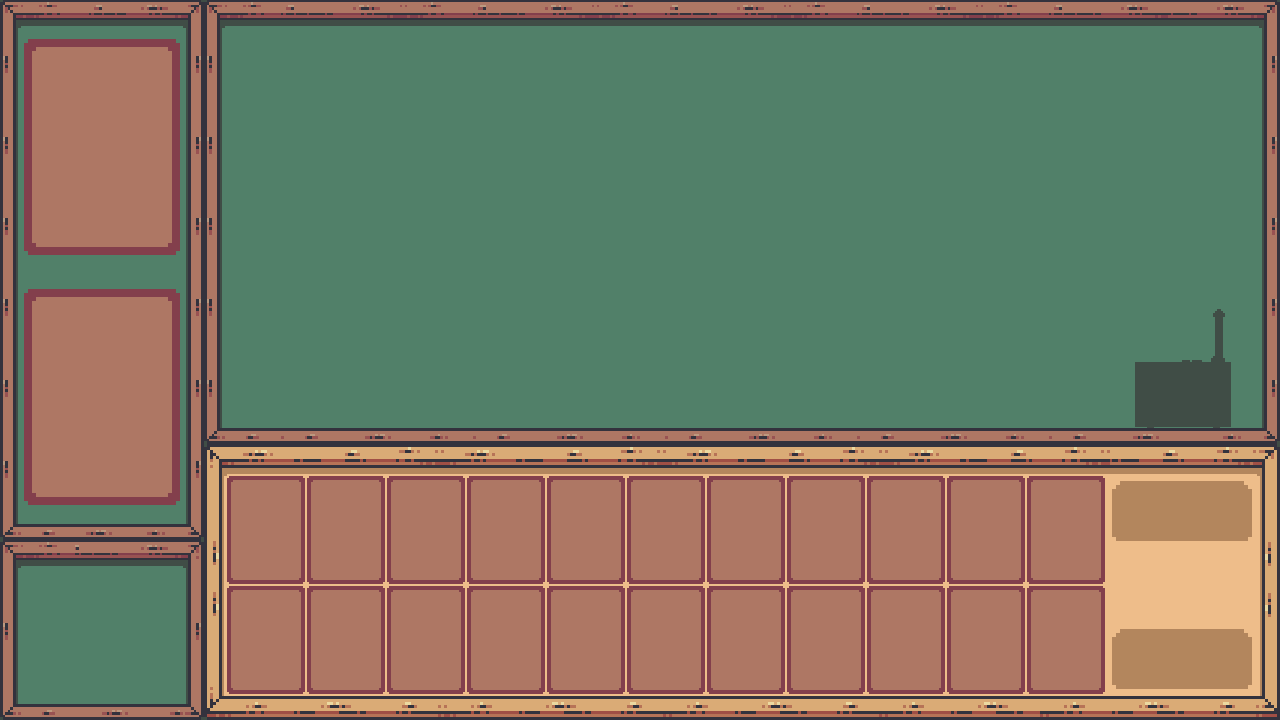
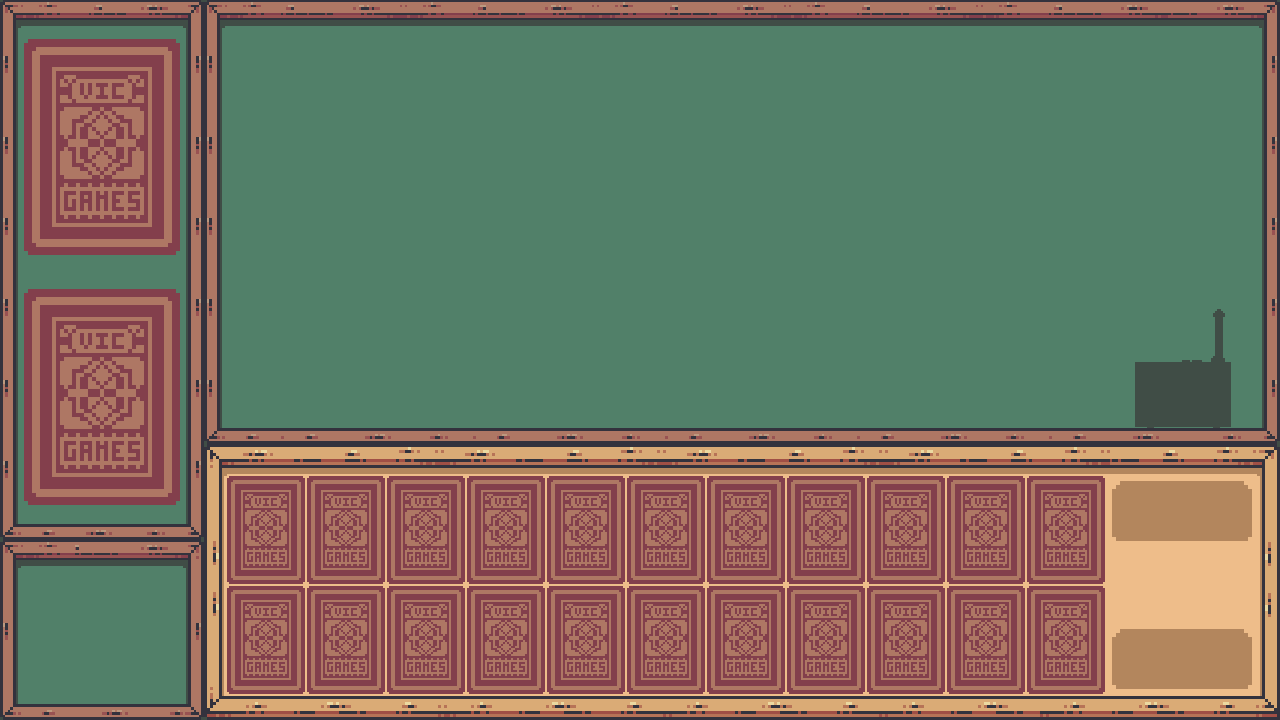
ahora el tablero no se ve tan mal

Changed region(s): [[0.1562, 0.6722, 0.875, 0.9778], [0.0312, 0.3972, 0.125, 0.7028], [0.0312, 0.0611, 0.125, 0.3361]]

diff --git a/src/cardTreatment/Mano.java b/src/cardTreatment/Mano.java
@@ -17,6 +17,7 @@ import utilz.LoadSave;
 public class Mano extends Combinaciones {
 	
 	private List<Carta> mano;
+	private List<Slot> manoSlot;
 	private List<Trio> bajadaTrios;
 	private List<Escalera> bajadaEscalera;
 	private List<Carta> selection;
@@ -29,6 +30,8 @@ public class Mano extends Combinaciones {
 	
 	public Mano(Baraja b) {
 		mano = new ArrayList<>();
+		manoSlot = new ArrayList<>();
+		initSlot();
 		bajadaTrios = new ArrayList<>();
 		bajadaEscalera = new ArrayList<>();
 		selection = new ArrayList<>();
@@ -38,20 +41,32 @@ public class Mano extends Combinaciones {
 		importCards();
 	}
 	
+	private void initSlot() {
+		int x = 227;
+		int y = 474;
+		for (int i = 0; i < 22; i++) {
+			manoSlot.add(new Slot(x, y));
+			if (x == 1027) {
+				x = 227;
+				y = 584;
+			} else { x += 80; }
+		} 
+	}
+
 	private void importCards() {
 		img = LoadSave.GetSpriteAtlas(LoadSave.CARD_ATLAS);
 	}
 	
 	public void updateMano() {
-		for (Carta c : mano) {
-			c.updateHitbox();
+		for (Slot s : manoSlot) {
+			s.getCarta().updateHitbox();
 		}
 	}
 	
-	public void renderMano(Graphics g) {
-		ArrayList<Carta> aux = new ArrayList<>(mano);
-		for (Carta c : aux) {
-			c.render(g, getImage(), 1, 1);
+	public void renderSlots(Graphics g) {
+		ArrayList<Slot> aux = new ArrayList<>(manoSlot);
+		for (Slot s : aux) {
+			s.render(g, img);
 		}
 	}
 	
@@ -62,16 +77,52 @@ public class Mano extends Combinaciones {
 	public void give() {
 		Random random = new Random();
 		int num = random.nextInt(baraja.getSize()); //genera un número aleatorio para la baraja (52 cartas y 6 comodines)
-		mano.add(baraja.getCard(num)); //añade una carta de la baraja y la elimina de la lista. Si después de eso la baraja queda vacía, genera una nueva
+		Carta c = baraja.getCard(num);
+		mano.add(c); //añade una carta de la baraja y la elimina de la lista.
+		addToSlot(c); //añade la carta al slot
+		System.out.println("Added 1 card");
 	}
 	
+	private void addToSlot(Carta c) {
+		int i = 0;
+		boolean added = false;
+		while (i < manoSlot.size() && !added) {
+			if (manoSlot.get(i).getCarta() == null) {
+				manoSlot.get(i).add(c);
+				added = true;
+			}
+			i++;
+		}
+	}
+
 	public void discard(Carta carta) {
 		mano.remove(carta);
+		removeFromSlots(carta);
 		ultimaCartaEliminada = carta;
 	}
 	
+	private void removeFromSlots(Carta carta) {
+		int i = 0;
+		boolean removed = false;
+		while (i < manoSlot.size() && !removed) {
+			if (manoSlot.get(i).getCarta().equals(carta)) {
+				manoSlot.get(i).remove();
+				updateSlots(i);
+				removed = true;
+			}
+			i++;
+		}
+	}
+
+	private void updateSlots(int pos) {
+		for (int i = pos; i < manoSlot.size() - 1; i++) {
+			manoSlot.get(i).add(manoSlot.get(i + 1).getCarta());
+		}
+	}
+
 	public void take(Carta carta) {
 		mano.add(carta);
+		addToSlot(carta);
 	}
 	
 	public void retake() {

diff --git a/src/cardTreatment/Carta.java b/src/cardTreatment/Carta.java
@@ -24,7 +24,7 @@ public class Carta {
 		resguardada = false;
 		this.x = x;
 		this.y = y;
-		initHitbox(x, y, 2 * CARD_WIDTH, 2 * CARD_HEIGHT);
+		initHitbox();
 	}
 	
 	public Carta(int x, int y) { //Crea un comodín en X e Y
@@ -36,11 +36,11 @@ public class Carta {
 		resguardada = false;
 		this.x = x;
 		this.y = y;
-		initHitbox(this.x, this.y, 2 * CARD_WIDTH, 2 * CARD_HEIGHT);
+		initHitbox();
 	}
 	
-	private void initHitbox(int x, int y, int w, int h) {
-		hitbox = new Rectangle(x, y, w, h);
+	private void initHitbox() {
+		hitbox = new Rectangle(x, y, CARD_WIDTH, CARD_HEIGHT);
 	}
 	
 	public void updateHitbox() {
@@ -49,8 +49,9 @@ public class Carta {
 		
 	}
 	
-	public void updatePos() {
-		
+	public void setCardDimensions(int mult) {
+		hitbox.width = mult * CARD_WIDTH;
+		hitbox.height = mult * CARD_HEIGHT;
 	}
 
 	public boolean getEnBaraja() {
@@ -73,9 +74,9 @@ public class Carta {
 		return hitbox;
 	}
 	
-	public void drawHitbox(Graphics g, int wmult, int hmult) {
+	public void drawHitbox(Graphics g, int mult) {
 		g.setColor(Color.pink);
-		g.drawRect(hitbox.x, hitbox.y, wmult * CARD_WIDTH, hmult * CARD_HEIGHT);
+//		g.drawRect(hitbox.x, hitbox.y, mult * CARD_WIDTH, mult * CARD_HEIGHT);
 	}
 	
 	private void adjustValue(int n) {
@@ -95,16 +96,16 @@ public class Carta {
 		}
 	}
 	
-	public void render(Graphics g, BufferedImage img, int wmult, int hmult) {
-//		x = xD;
-//		y = yD;
+	public void render(Graphics g, BufferedImage img, int x, int y, int mult) {
+		this.x = x;
+		this.y = y;
 		updateHitbox();
 		if (isComodin()) {
-			g.drawImage(img.getSubimage(CARD_WIDTH, (palo - 1) * CARD_HEIGHT, CARD_WIDTH , CARD_HEIGHT), x, y, wmult * CARD_WIDTH , hmult * CARD_HEIGHT, null);
+			g.drawImage(img.getSubimage(CARD_WIDTH, (palo - 1) * CARD_HEIGHT, CARD_WIDTH , CARD_HEIGHT), x, y, mult * CARD_WIDTH , mult * CARD_HEIGHT, null);
 		} else {
-			g.drawImage(img.getSubimage((number - 1) * CARD_WIDTH, (palo - 1) * CARD_HEIGHT, CARD_WIDTH , CARD_HEIGHT), x, y, wmult * CARD_WIDTH , hmult * CARD_HEIGHT, null);
+			g.drawImage(img.getSubimage((number - 1) * CARD_WIDTH, (palo - 1) * CARD_HEIGHT, CARD_WIDTH , CARD_HEIGHT), x, y, mult * CARD_WIDTH , mult * CARD_HEIGHT, null);
 		}
-		drawHitbox(g, wmult, hmult);
+		drawHitbox(g, mult);
 	}
 	
 	public boolean isSeleccionada() { return seleccionada; }

diff --git a/src/cardTreatment/Slot.java b/src/cardTreatment/Slot.java
@@ -1,14 +1,48 @@
 package cardTreatment;
 
+import java.awt.Color;
+import java.awt.Graphics;
 import java.awt.Rectangle;
+import java.awt.image.BufferedImage;
 
 public class Slot {
 	
-	private Carta card;
+	private Carta carta;
 	private Rectangle hitbox;
+	private int x, y, width = 78, height = 108;
 	
-	public Slot() {
-		hitbox = new Rectangle(0, 0, 78, 108);
+	public Slot(int x, int y) {
+		this.x = x;
+		this.y = y;
+		carta = null;
+		hitbox = new Rectangle(x, y, width, height);
+	}
+	
+	public void setSlotPos(int x, int y) {
+		this.x = x;
+		this.y = y;
+		hitbox.x = x;
+		hitbox.y = y;
+	}
+	
+	public void add(Carta c) {
+		carta = c;
+	}
+	
+	public void remove() {
+		carta = null;
+	}
+	
+	public Carta getCarta() {
+		return carta;
+	}
+
+	public void render(Graphics g, BufferedImage img) {
+		g.setColor(Color.GREEN);
+//		g.drawRect(x, y, width, height);
+		if (carta != null) {
+			carta.render(g, img, x, y, 1);
+		}
 	}
 	
 }

diff --git a/src/cardTreatment/Descartes.java b/src/cardTreatment/Descartes.java
@@ -36,7 +36,7 @@ public class Descartes {
 	
 	public void render(Graphics g) {
 		if (!descartes.isEmpty()) {
-			getCarta().render(g, img, 2, 2); // 28, 293
+			getCarta().render(g, img, 24, 285, 2); // 28, 293
 		}
 //		g.setColor(Color.PINK);
 //		g.drawRect(hitbox.x, hitbox.y, hitbox.width, hitbox.height);

diff --git a/src/gameDynamics/Round.java b/src/gameDynamics/Round.java
@@ -52,10 +52,10 @@ public class Round {
 		//10. 2 escaleras y 2 tríos - 14 || Cartas Mínimas: 14
 		switch (num) {
 		case 1:
-			trios = 1;
-			escaleras = 0;
-			numCartas = 5;
-			cartasMin = 3;
+			trios = 0;
+			escaleras = 1;
+			numCartas = 7;
+			cartasMin = 4;
 			break;
 		case 2:
 			trios = 2;

diff --git a/src/gameDynamics/Player.java b/src/gameDynamics/Player.java
@@ -182,6 +182,6 @@ public class Player extends Round {
 	}
 
 	public void render(Graphics g) {
-		mano.renderMano(g);
+		mano.renderSlots(g);
 	}
 }
